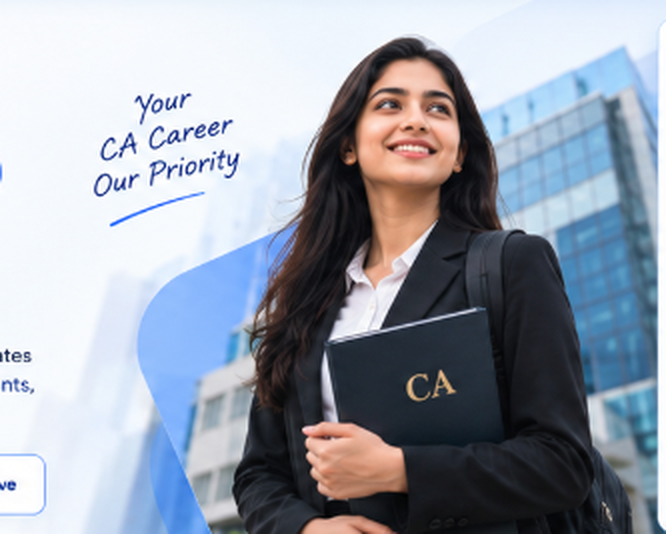
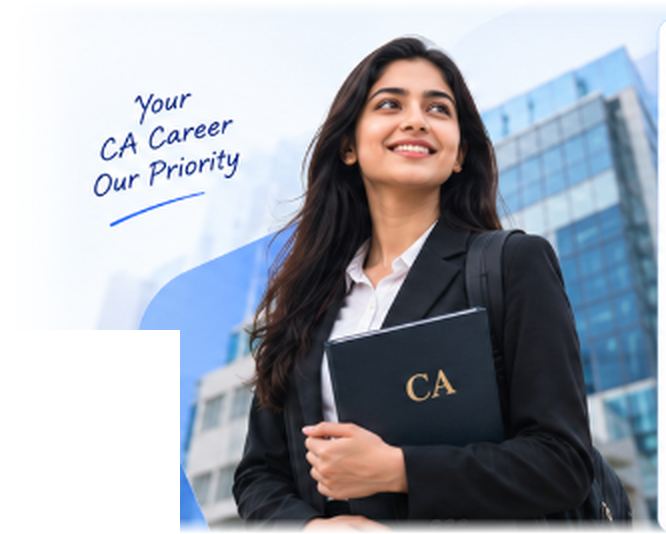
feat: update Ritesh photo, change campus dates to Jan 2027, smooth fade ca hero image edge, enable continuous automatic slider

diff --git a/frontend/src/pages/home/Hero.tsx b/frontend/src/pages/home/Hero.tsx
@@ -116,41 +116,31 @@ const slideVariants = {
 // ─── Main Hero Component ──────────────────────────────────────────────────────
 export const Hero = () => {
   const [currentSlide, setCurrentSlide] = useState(0);
-  const [direction, setDirection] = useState(1); // 1 = forward, -1 = backward
-  const [isPaused, setIsPaused] = useState(false);
   const [itModalOpen, setItModalOpen] = useState(false);
-  const autoRef = useRef<NodeJS.Timeout | null>(null);
 
   const SLIDE_COUNT = 3;
-  const AUTO_INTERVAL = 6000; // 6 seconds
+  const AUTO_INTERVAL = 4500; // 4.5 seconds per slide
 
-  const goTo = useCallback(
-    (idx: number, dir?: number) => {
-      const newDir = dir ?? (idx > currentSlide ? 1 : -1);
-      setDirection(newDir);
-      setCurrentSlide((idx + SLIDE_COUNT) % SLIDE_COUNT);
-    },
-    [currentSlide]
-  );
+  const goTo = (idx: number) => {
+    setCurrentSlide((idx + SLIDE_COUNT) % SLIDE_COUNT);
+  };
 
   const next = useCallback(() => {
-    setDirection(1);
     setCurrentSlide((prev) => (prev + 1) % SLIDE_COUNT);
   }, []);
 
   const prev = useCallback(() => {
-    setDirection(-1);
     setCurrentSlide((prev) => (prev - 1 + SLIDE_COUNT) % SLIDE_COUNT);
   }, []);
 
-  // Auto-scroll
+  // Automatic slide rotation: changes slide continuously every 4.5s
   useEffect(() => {
-    if (isPaused) return;
-    autoRef.current = setInterval(next, AUTO_INTERVAL);
-    return () => {
-      if (autoRef.current) clearInterval(autoRef.current);
-    };
-  }, [isPaused, next]);
+    const timer = setInterval(() => {
+      setCurrentSlide((prev) => (prev + 1) % SLIDE_COUNT);
+    }, AUTO_INTERVAL);
+
+    return () => clearInterval(timer);
+  }, [currentSlide]);
 
   // ─── SLIDE 1: CA Recruitment ──────────────────────────────────────────────
   const Slide1 = () => (
@@ -429,11 +419,13 @@ export const Hero = () => {
         transition={{ opacity: { duration: 0.5, delay: 0.15 }, scale: { duration: 0.5, delay: 0.15 } }}
         className="lg:col-span-4 flex items-center justify-center relative py-1"
       >
-        <img
-          src="/ca_hero_perfect.png"
-          alt="CA Industrial Training - Fast Careers"
-          className="h-[340px] sm:h-[370px] lg:h-[390px] w-auto max-w-full object-contain pointer-events-none select-none drop-shadow-md"
-        />
+        <div className="relative rounded-2xl overflow-hidden shadow-xs">
+          <img
+            src="/ca_hero_perfect.png"
+            alt="CA Industrial Training - Fast Careers"
+            className="h-[340px] sm:h-[370px] lg:h-[390px] w-auto max-w-full object-contain pointer-events-none select-none drop-shadow-md rounded-2xl"
+          />
+        </div>
       </motion.div>
 
       {/* Right: Milestone Card */}
@@ -461,8 +453,6 @@ export const Hero = () => {
     <>
       <section
         className="relative bg-gradient-to-b from-[#eaf3fd] via-[#f5f9fe] to-white pt-[74px] pb-2 sm:pt-[80px] sm:pb-3 lg:pt-[84px] lg:pb-3 border-b border-slate-200/80 overflow-hidden"
-        onMouseEnter={() => setIsPaused(true)}
-        onMouseLeave={() => setIsPaused(false)}
       >
         {/* Background Soft Glow — changes per slide */}
         <motion.div

diff --git a/frontend/src/pages/PlacementResults.tsx b/frontend/src/pages/PlacementResults.tsx
@@ -646,7 +646,7 @@ export const PlacementResults = () => {
               <span>Physical Campus Venues</span>
             </div>
             <h2 className="text-3xl sm:text-4xl font-black text-slate-900 tracking-tight mb-3">
-              FAST CA PHYSICAL CAMPUS – July 2026 Schedule
+              FAST CA PHYSICAL CAMPUS – Jan 2027 Schedule
             </h2>
             <p className="text-slate-600 text-sm sm:text-base">
               One Day | One Venue | Tons of Participants | Multiple Recruiting Companies
@@ -672,7 +672,7 @@ export const PlacementResults = () => {
                       <span className="text-[11px] font-extrabold uppercase px-2.5 py-0.5 rounded-md bg-blue-600 text-white tracking-wider">
                         Delhi NCR
                       </span>
-                      <h3 className="text-2xl font-black text-white mt-1">07 July 2026</h3>
+                      <h3 className="text-2xl font-black text-white mt-1">07 Jan 2027</h3>
                     </div>
                   </div>
                   <button 
@@ -732,7 +732,7 @@ export const PlacementResults = () => {
                       <span className="text-[11px] font-extrabold uppercase px-2.5 py-0.5 rounded-md bg-purple-600 text-white tracking-wider">
                         Mumbai
                       </span>
-                      <h3 className="text-2xl font-black text-white mt-1">10 July 2026</h3>
+                      <h3 className="text-2xl font-black text-white mt-1">10 Jan 2027</h3>
                     </div>
                   </div>
                   <button 
